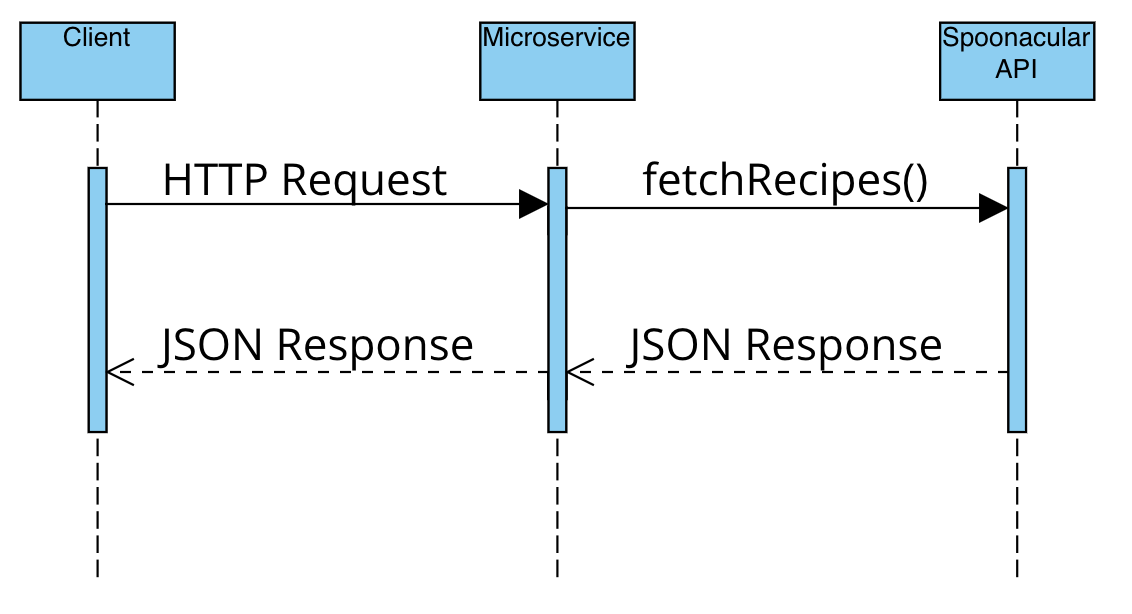
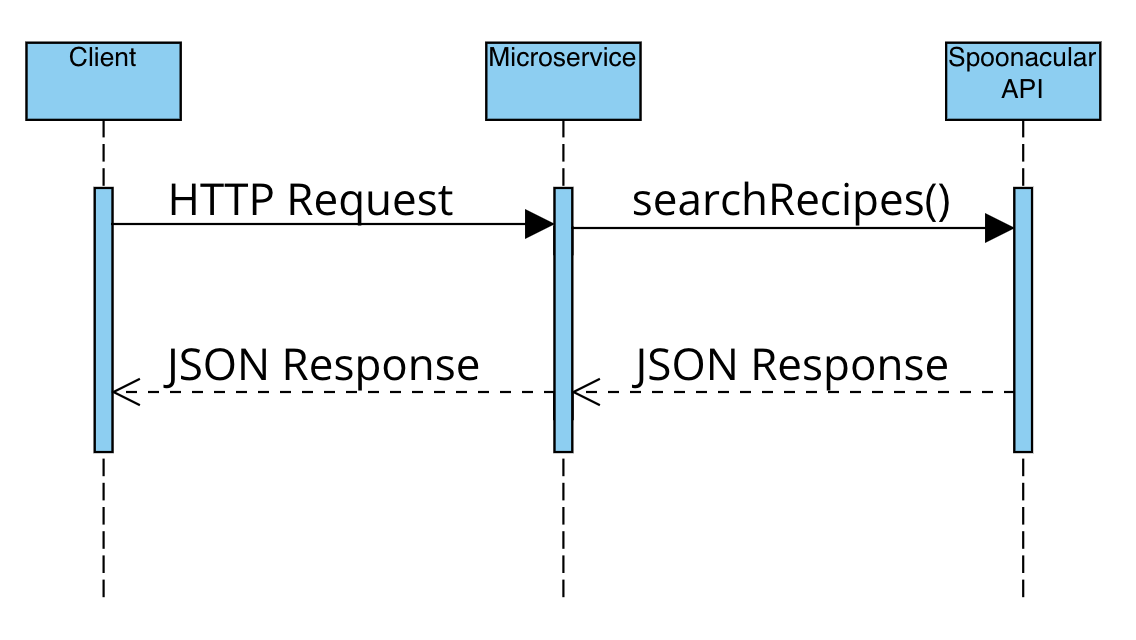
update route and controller function name

Changed region(s): [[0.0, 0.0309, 0.9894, 0.9283], [0.4019, 0.0309, 0.5875, 0.2166]]

diff --git a/README.md b/README.md
@@ -13,7 +13,7 @@ By default, the server will run on port 8080. To change the port, change the val
 As of now, the API has one endpoint: `/spoonacular/fetchRecipes`, which will return a list of recipes that can be filtered using `includeIgredients`, `excludeIngredients`, and `diet` criteria. Values for these criteria should be passed from the client in the body of http request. Values for `includeIngredients` and `excludeIngredients` should be strings with each ingredient separated by a comma. Values for diet are also a string, but can be separated by either a comma or a pipe character ('|'). A commas will be interpreted as AND and pipe characters will be interpreted as OR. A list of accepted diet options is available [here](https://spoonacular.com/food-api/docs#Diets). Below is a sample call:
 
 ```
-const recipes = await axios.get("http://localhost:8080/spoonacular/fetchRecipes", {includeIgredients: "tomato,mozzarella", excludeIngredients: "capers", diet: "vegetarian|vegan"})
+const recipes = await axios.get("http://localhost:8080/spoonacular/search-recipes", {includeIgredients: "tomato,mozzarella", excludeIngredients: "capers", diet: "vegetarian|vegan"})
 ```
 
 This call produces the following results:
